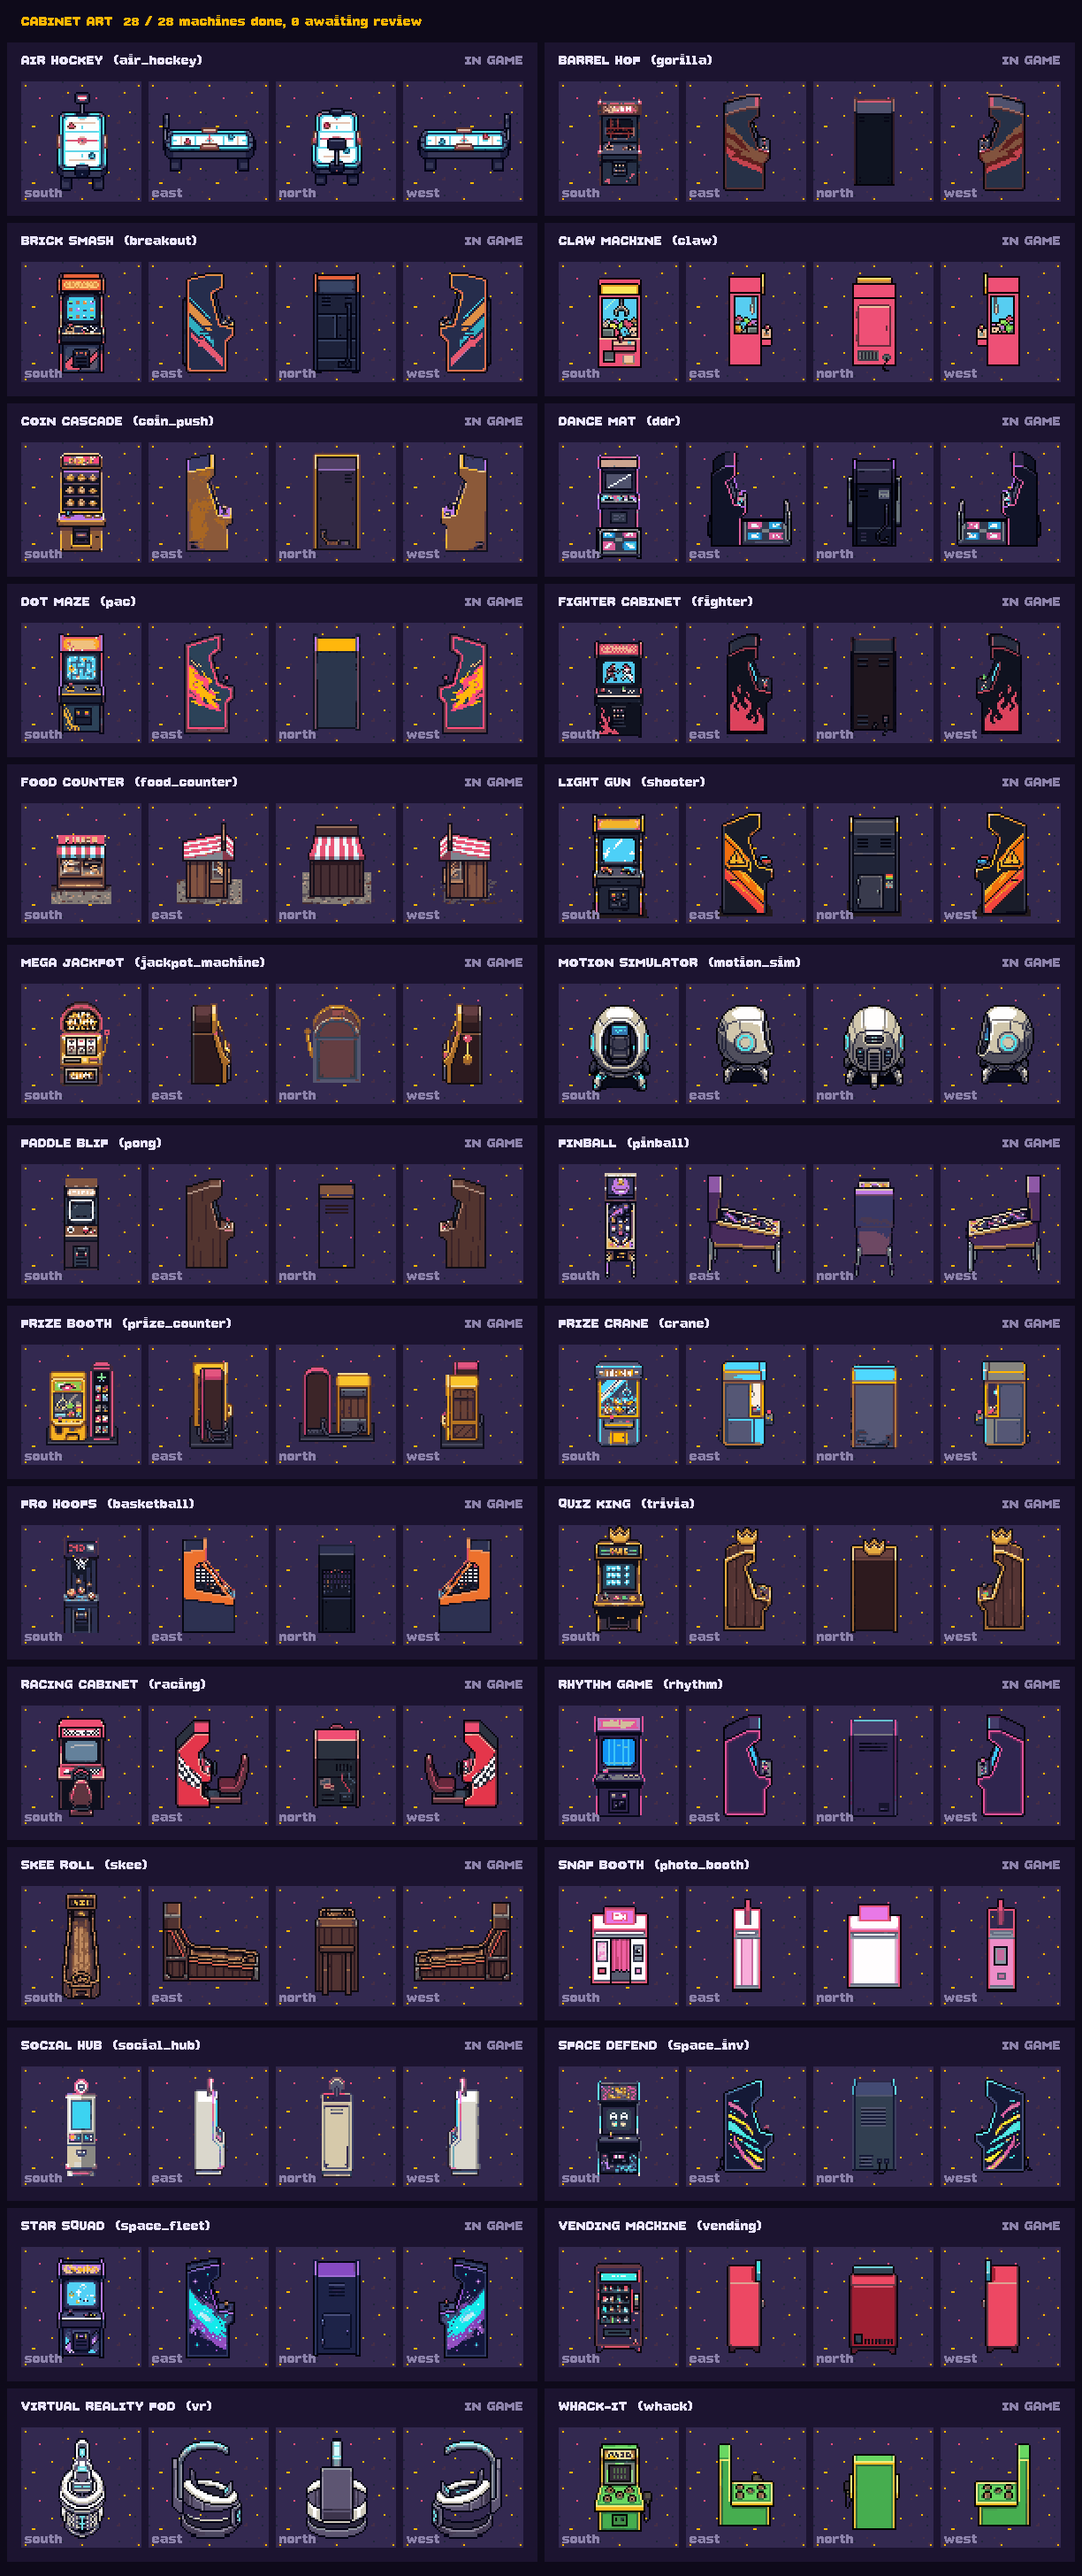
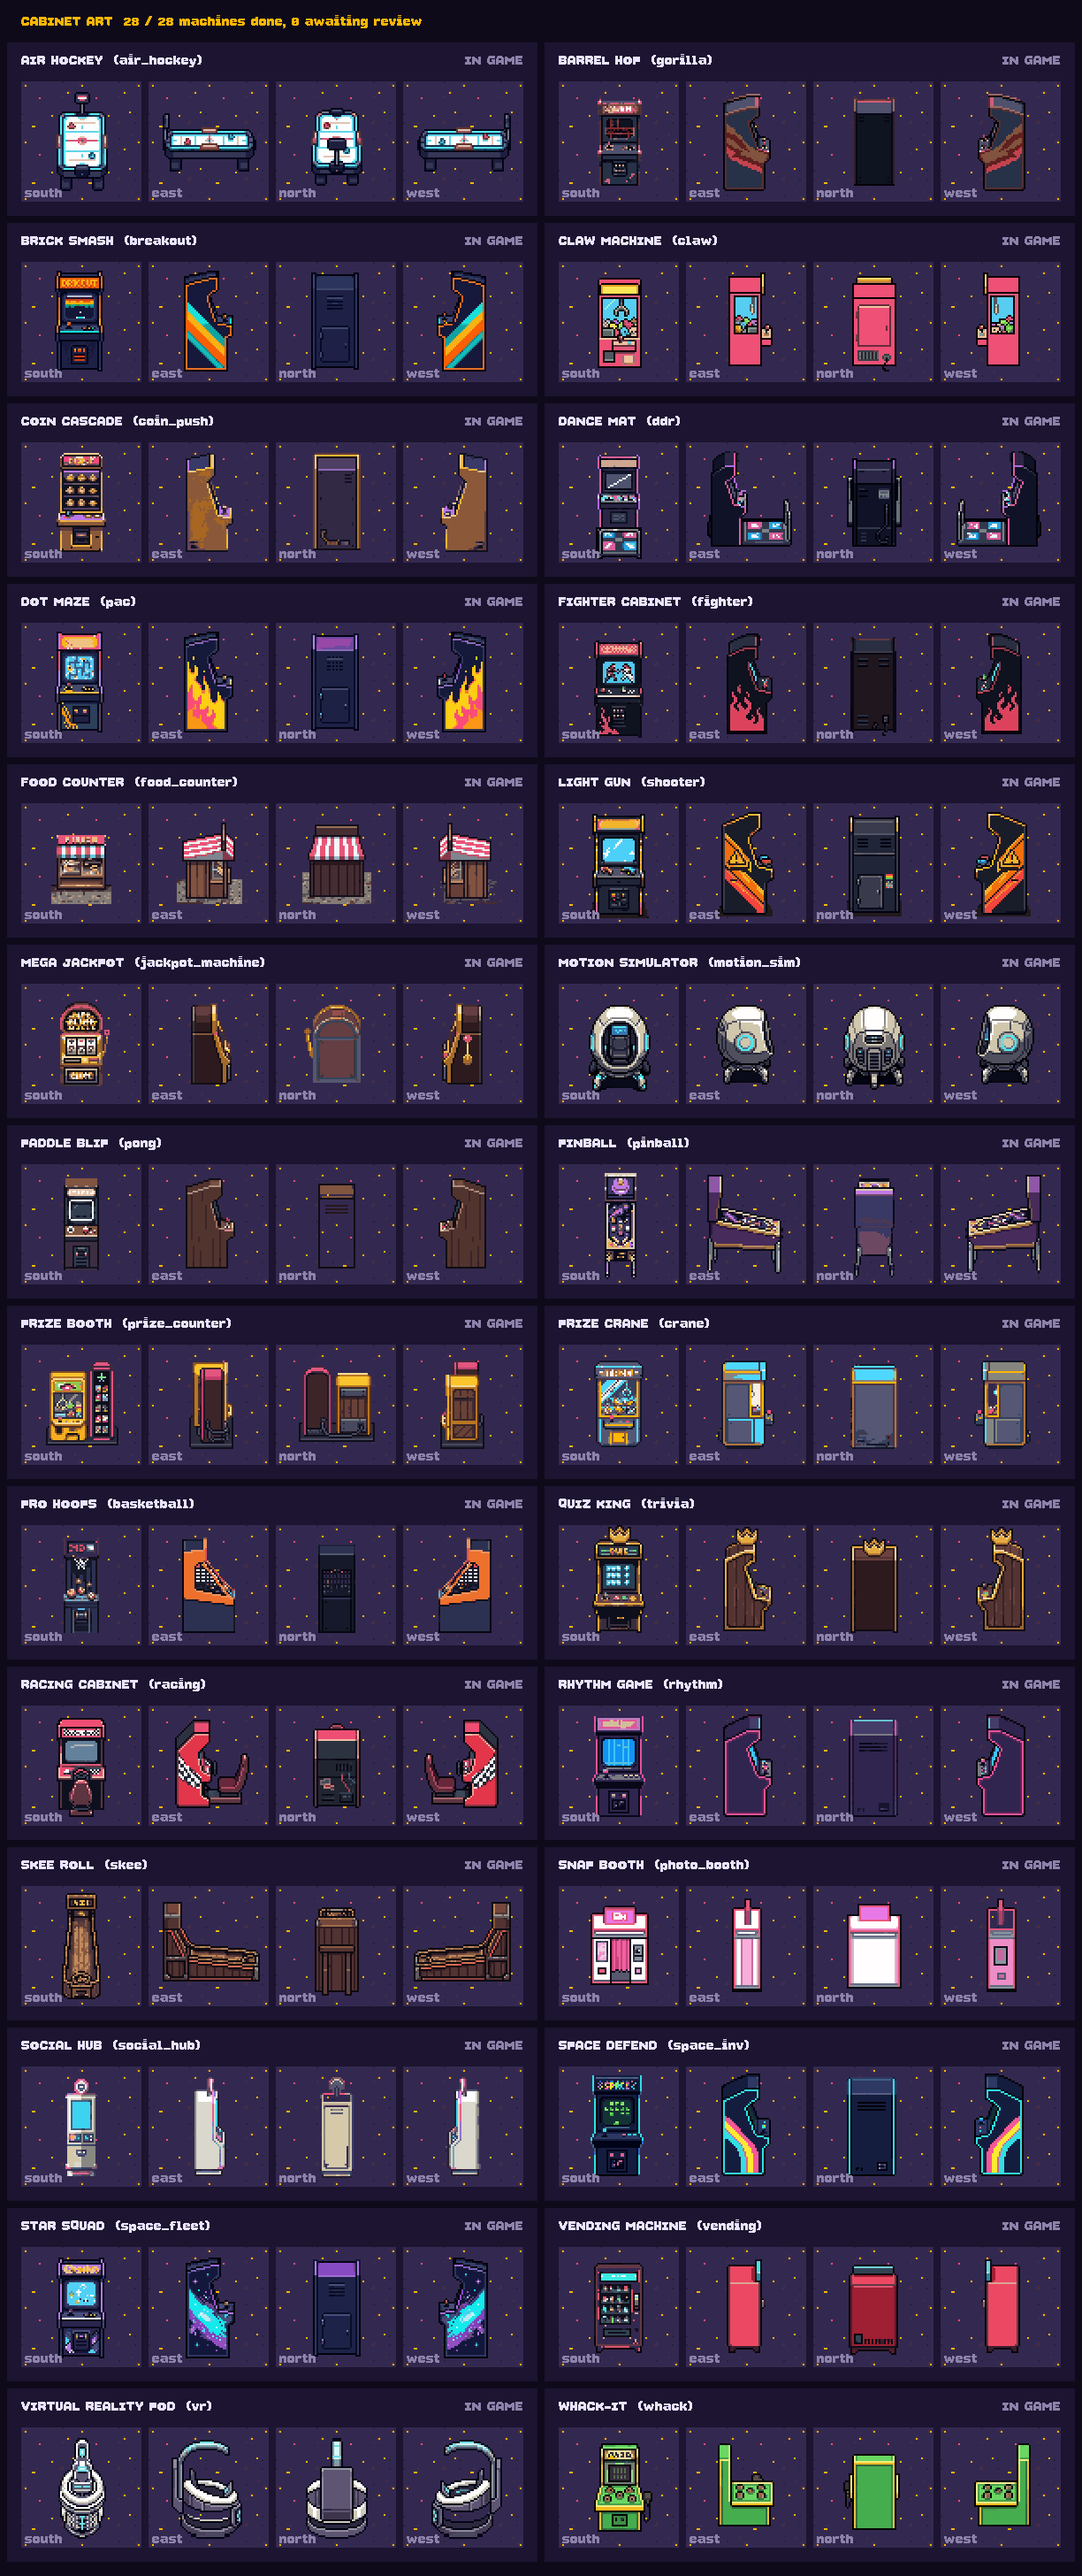
Redo the Dot Maze, Space Defend and Brick Smash cabinets
Their side views leaned slightly and hid the controls. The three are
regenerated with an approved cabinet as the style guide, so the sides
are fully side-on with the control box showing, like the others. Space
Defend and Brick Smash also get new fronts from the regeneration.

diff --git a/ART.md b/ART.md
@@ -71,11 +71,16 @@ the machine's `.tres` shows as NEW - REVIEW; wire it in only after the user appr
 
 ### Cabinets in the game
 
+Side views must be fully side-on with the control box sticking out at the front. To
+regenerate a cabinet to match, pass an approved cabinet's object as `style_object_id`
+to `create_8_direction_object` along with the front-view reference (pick one whose side
+art won't leak in).
+
 | Machine | PixelLab 8-direction object |
 |---|---|
-| `space_inv` | `775bb75e-1c4a-4f97-8bbf-c83309c0b50e` |
-| `pac` | `e091b618-b174-4b56-91b3-af90e1e670dd` |
-| `breakout` | `175a6436-9e7c-450f-bb98-3685069be542` |
+| `space_inv` | `24f742e2-f9f7-4ec2-ae91-c01b92cc1e22` (style: rhythm object) |
+| `pac` | `22232afc-401e-4f50-adea-e1d44fadf680` (style: space_fleet object) |
+| `breakout` | `29fabf9d-33dd-4181-bf77-6216db04488a` (style: space_fleet object) |
 | `pong` | `91834203-9287-4632-a6e6-4bad91209f0c` |
 | `fighter` | `d0b926b5-3e97-4ded-a3a8-b55b380c3bcd` |
 | `gorilla` | `4a79a195-7c6a-4997-b4cd-de9f722aaf1f` |
